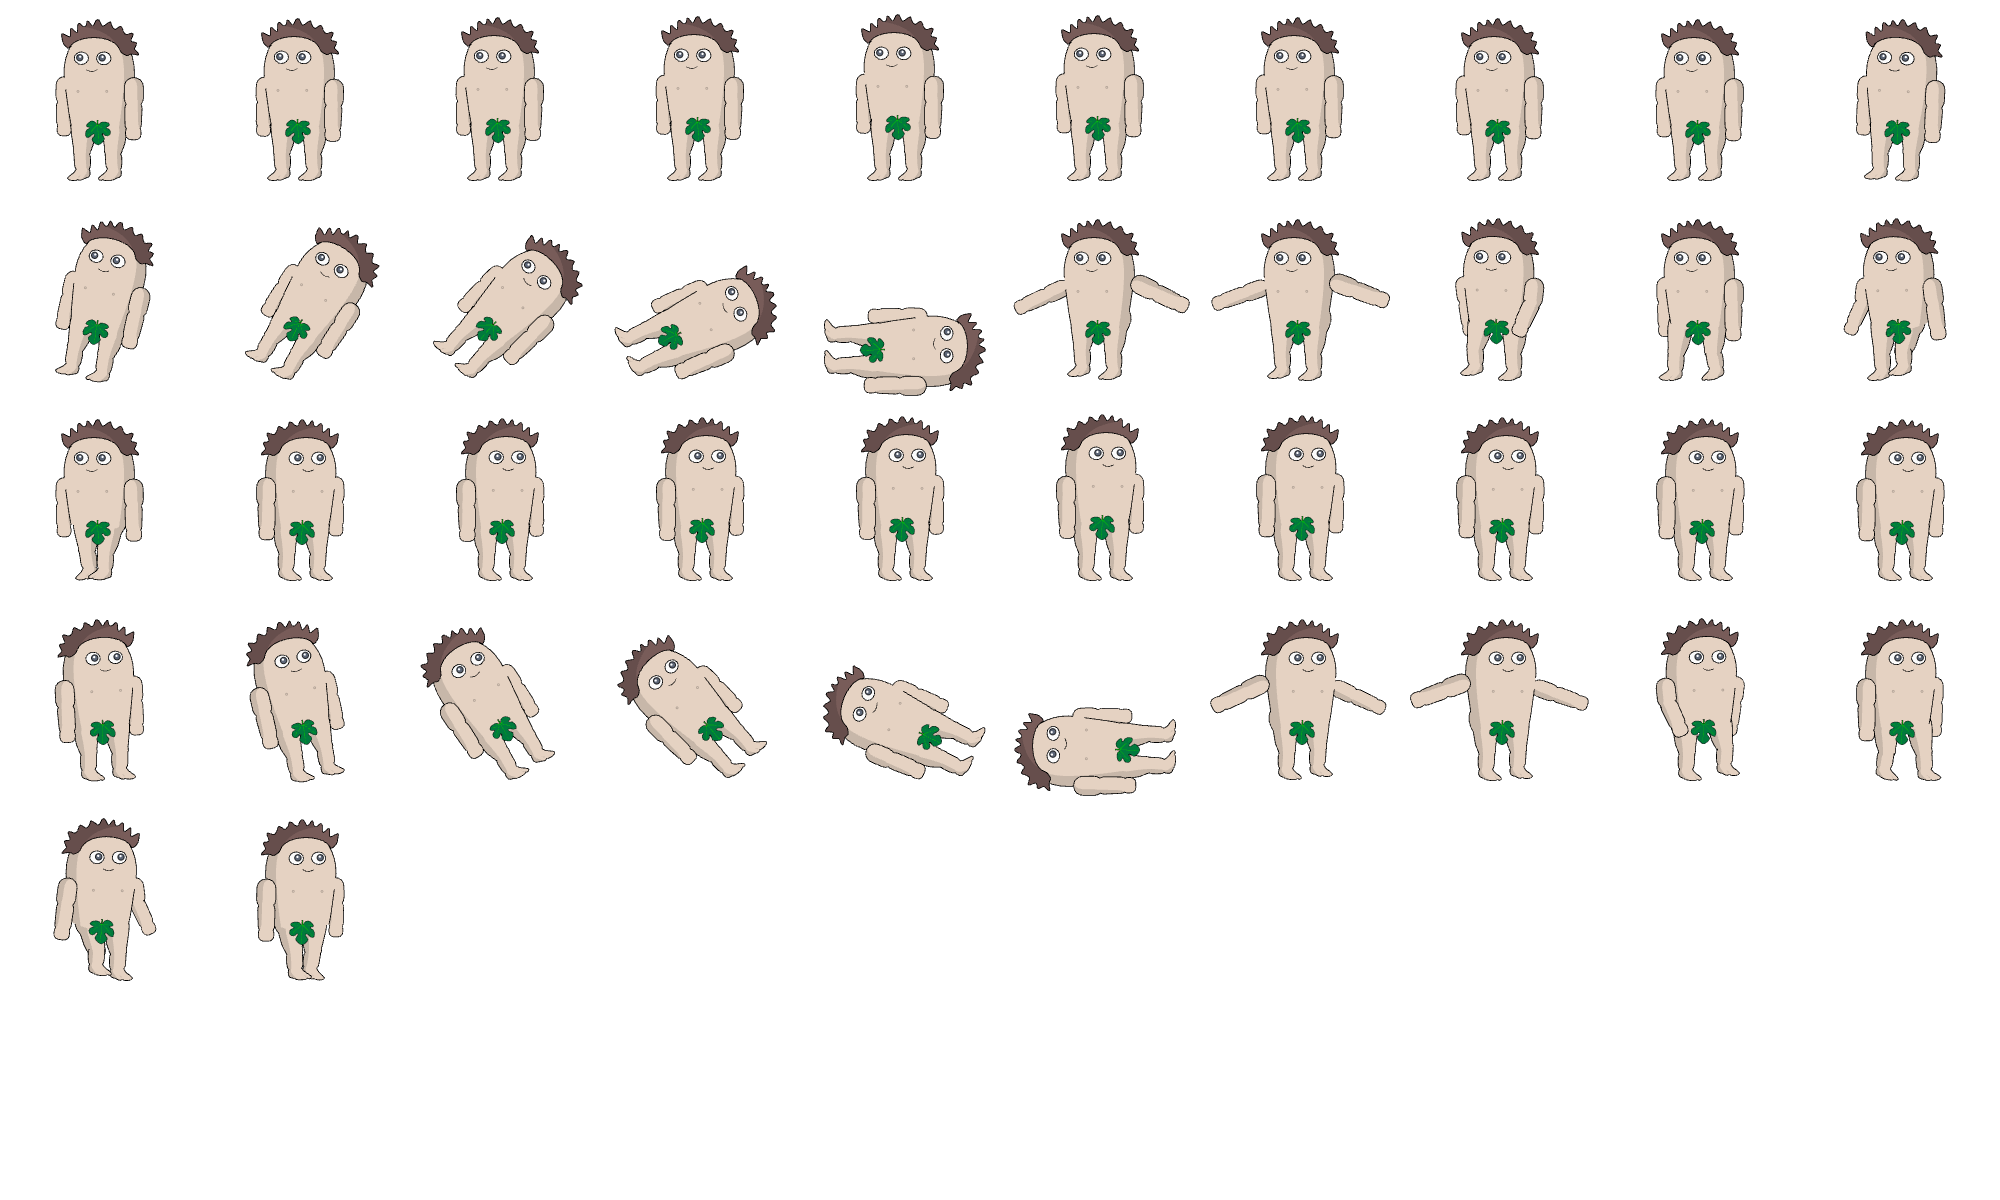
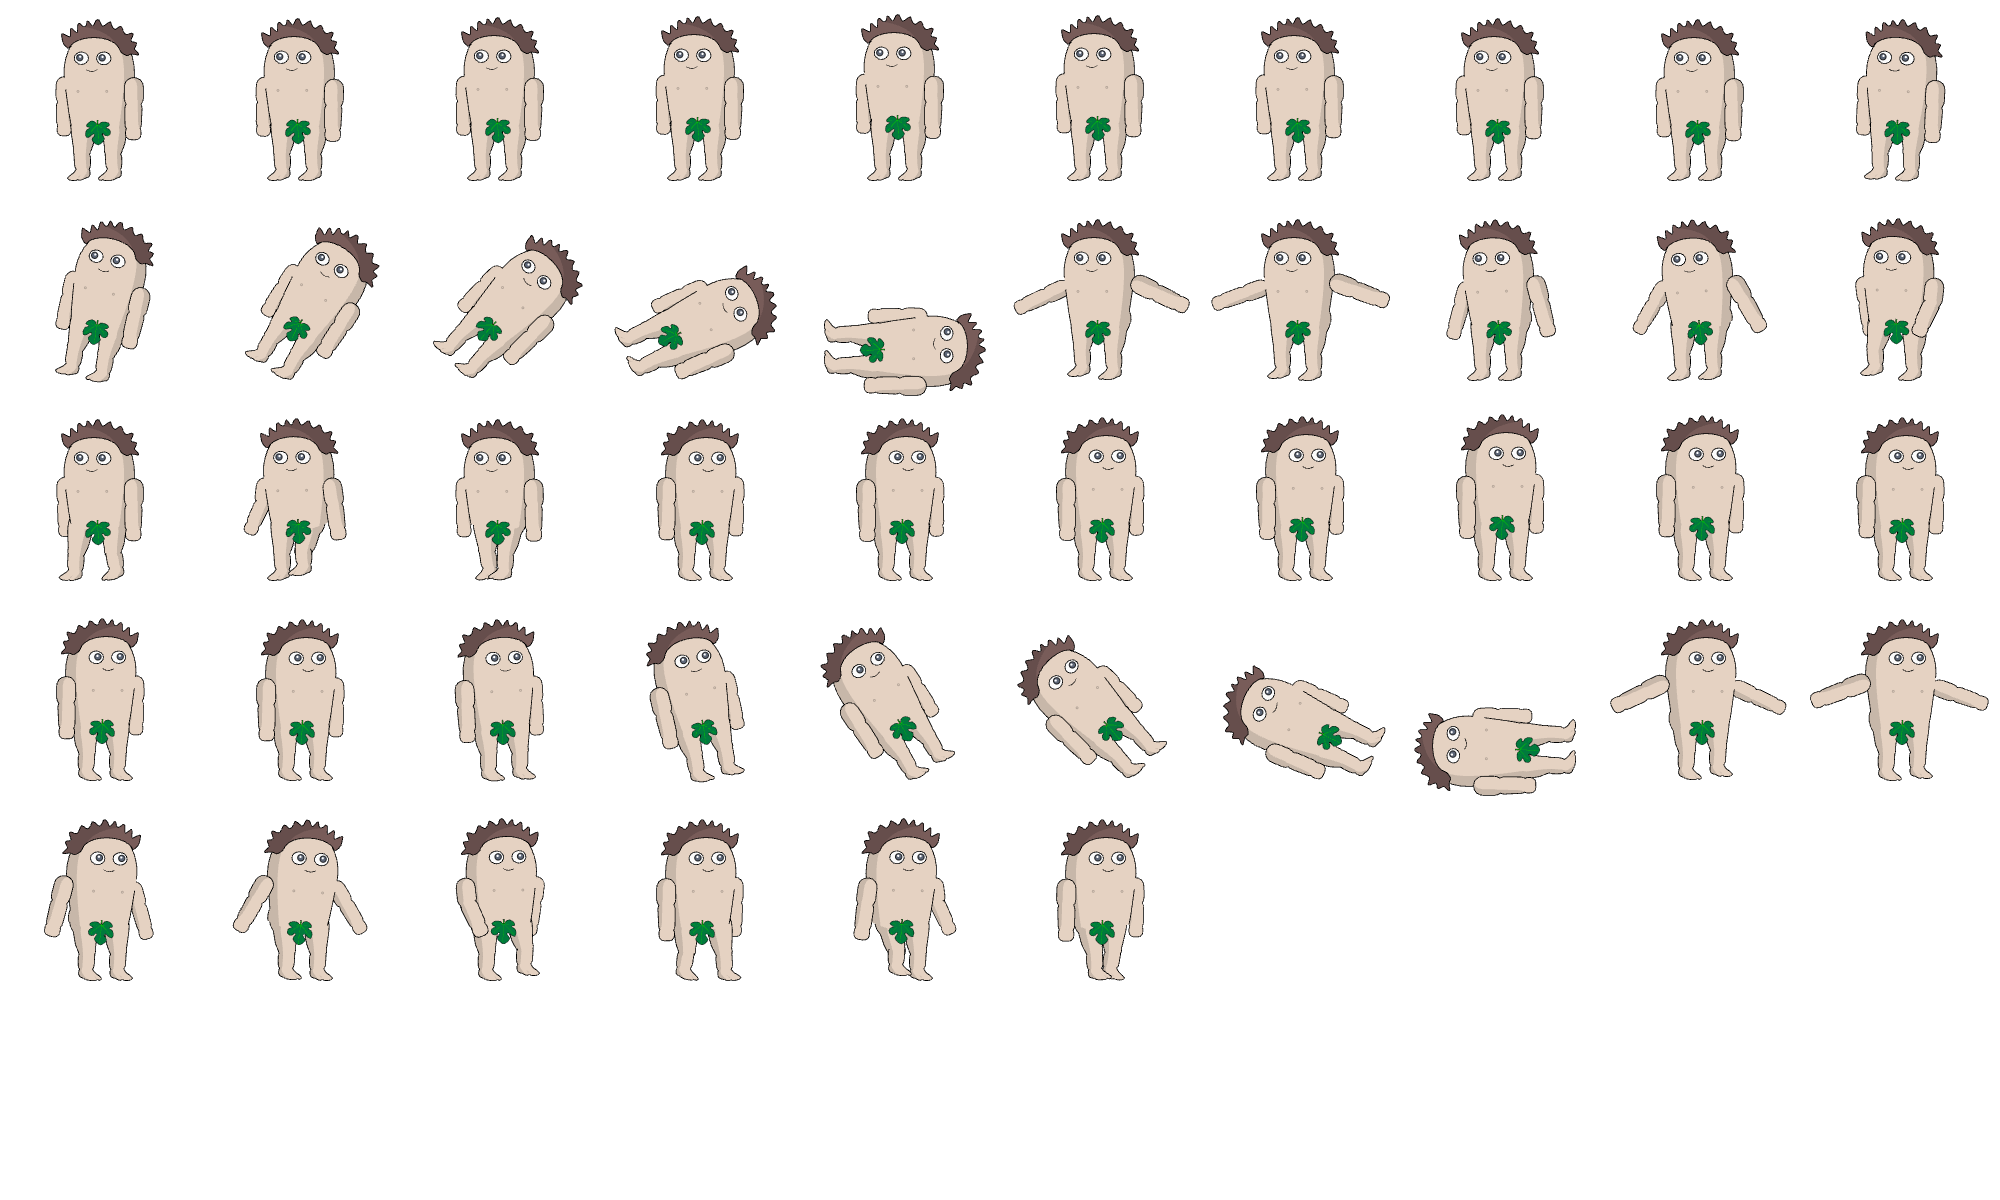
Updates from Spritiulus v0.4.2 and fixes animations

diff --git a/src/game/scenes/Home.js b/src/game/scenes/Home.js
@@ -174,21 +174,33 @@ export class Home extends Scene {
             });
             this.anims.create({
                 key: 'adam-idle-flipped',
-                frames: this.anims.generateFrameNumbers('character-adam', { start: 21, end: 28 }),
+                frames: this.anims.generateFrameNumbers('character-adam', { start: 23, end: 30 }),
                 frameRate: 8,
                 repeat: -1
             });
             this.anims.create({
                 key: 'adam-move',
-                frames: this.anims.generateFrameNumbers('character-adam', { start: 17, end: 20 }),
+                frames: this.anims.generateFrameNumbers('character-adam', { start: 19, end: 22 }),
                 frameRate: 8,
                 repeat: -1
             });
             this.anims.create({
                 key: 'adam-move-flipped',
-                frames: this.anims.generateFrameNumbers('character-adam', { start: 38, end: 41 }),
+                frames: this.anims.generateFrameNumbers('character-adam', { start: 42, end: 45 }),
                 frameRate: 8,
                 repeat: -1
+            });
+            this.anims.create({
+                key: 'adam-jump',
+                frames: this.anims.generateFrameNumbers('character-adam', { start: 17, end: 18 }),
+                frameRate: 8,
+                repeat: 0
+            });
+            this.anims.create({
+                key: 'adam-jump-flipped',
+                frames: this.anims.generateFrameNumbers('character-adam', { start: 40, end: 41 }),
+                frameRate: 8,
+                repeat: 0
             });
             this.anims.create({
                 key: 'adam-fall',
@@ -198,7 +210,7 @@ export class Home extends Scene {
             });
             this.anims.create({
                 key: 'adam-fall-flipped',
-                frames: this.anims.generateFrameNumbers('character-adam', { start: 36, end: 37 }),
+                frames: this.anims.generateFrameNumbers('character-adam', { start: 38, end: 39 }),
                 frameRate: 8,
                 repeat: 0
             });
@@ -210,7 +222,7 @@ export class Home extends Scene {
             });
             this.anims.create({
                 key: 'adam-death-flipped',
-                frames: this.anims.generateFrameNumbers('character-adam', { start: 29, end: 35 }),
+                frames: this.anims.generateFrameNumbers('character-adam', { start: 31, end: 37 }),
                 frameRate: 8,
                 repeat: 0
             });
@@ -222,21 +234,33 @@ export class Home extends Scene {
             });
             this.anims.create({
                 key: 'eve-idle-flipped',
-                frames: this.anims.generateFrameNumbers('character-eve', { start: 21, end: 28 }),
+                frames: this.anims.generateFrameNumbers('character-eve', { start: 23, end: 30 }),
                 frameRate: 8,
                 repeat: -1
             });
             this.anims.create({
                 key: 'eve-move',
-                frames: this.anims.generateFrameNumbers('character-eve', { start: 17, end: 20 }),
+                frames: this.anims.generateFrameNumbers('character-eve', { start: 19, end: 22 }),
                 frameRate: 8,
                 repeat: -1
             });
             this.anims.create({
                 key: 'eve-move-flipped',
-                frames: this.anims.generateFrameNumbers('character-eve', { start: 38, end: 41 }),
+                frames: this.anims.generateFrameNumbers('character-eve', { start: 42, end: 45 }),
                 frameRate: 8,
                 repeat: -1
+            });
+            this.anims.create({
+                key: 'eve-jump',
+                frames: this.anims.generateFrameNumbers('character-eve', { start: 17, end: 18 }),
+                frameRate: 8,
+                repeat: 0
+            });
+            this.anims.create({
+                key: 'eve-jump-flipped',
+                frames: this.anims.generateFrameNumbers('character-eve', { start: 40, end: 41 }),
+                frameRate: 8,
+                repeat: 0
             });
             this.anims.create({
                 key: 'eve-fall',
@@ -246,7 +270,7 @@ export class Home extends Scene {
             });
             this.anims.create({
                 key: 'eve-fall-flipped',
-                frames: this.anims.generateFrameNumbers('character-eve', { start: 36, end: 37 }),
+                frames: this.anims.generateFrameNumbers('character-eve', { start: 38, end: 39 }),
                 frameRate: 8,
                 repeat: 0
             });
@@ -258,7 +282,7 @@ export class Home extends Scene {
             });
             this.anims.create({
                 key: 'eve-death-flipped',
-                frames: this.anims.generateFrameNumbers('character-eve', { start: 29, end: 35 }),
+                frames: this.anims.generateFrameNumbers('character-eve', { start: 31, end: 37 }),
                 frameRate: 8,
                 repeat: 0
             });
@@ -318,43 +342,43 @@ export class Home extends Scene {
             });
             this.anims.create({
                 key: 'grassy-clump-idle-flipped',
-                frames: this.anims.generateFrameNumbers('element-grassy-clump', { start: 34, end: 44 }),
+                frames: this.anims.generateFrameNumbers('element-grassy-clump', { start: 30, end: 40 }),
                 frameRate: 8,
                 repeat: -1
             });
             this.anims.create({
                 key: 'grassy-clump-attack-1',
-                frames: this.anims.generateFrameNumbers('element-grassy-clump', { start: 11, end: 21 }),
+                frames: this.anims.generateFrameNumbers('element-grassy-clump', { start: 23, end: 29 }),
                 frameRate: 8,
                 repeat: 0
             });
             this.anims.create({
                 key: 'grassy-clump-attack-1-flipped',
-                frames: this.anims.generateFrameNumbers('element-grassy-clump', { start: 45, end: 55 }),
+                frames: this.anims.generateFrameNumbers('element-grassy-clump', { start: 53, end: 59 }),
                 frameRate: 8,
                 repeat: 0
             });
             this.anims.create({
                 key: 'grassy-clump-take-hit',
-                frames: this.anims.generateFrameNumbers('element-grassy-clump', { start: 22, end: 32 }),
+                frames: this.anims.generateFrameNumbers('element-grassy-clump', { start: 11, end: 21 }),
                 frameRate: 8,
                 repeat: 0
             });
             this.anims.create({
                 key: 'grassy-clump-take-hit-flipped',
-                frames: this.anims.generateFrameNumbers('element-grassy-clump', { start: 56, end: 66 }),
+                frames: this.anims.generateFrameNumbers('element-grassy-clump', { start: 41, end: 51 }),
                 frameRate: 8,
                 repeat: 0
             });
             this.anims.create({
                 key: 'grassy-clump-death',
-                frames: this.anims.generateFrameNumbers('element-grassy-clump', { start: 33, end: 33 }),
+                frames: this.anims.generateFrameNumbers('element-grassy-clump', { start: 22, end: 22 }),
                 frameRate: 8,
                 repeat: 0
             });
             this.anims.create({
                 key: 'grassy-clump-death-flipped',
-                frames: this.anims.generateFrameNumbers('element-grassy-clump', { start: 67, end: 67 }),
+                frames: this.anims.generateFrameNumbers('element-grassy-clump', { start: 52, end: 52 }),
                 frameRate: 8,
                 repeat: 0
             });

diff --git a/src/game/scenes/level1.js b/src/game/scenes/level1.js
@@ -209,9 +209,6 @@ export class level1 extends Scene {
         this.physics.add.collider(this.player, this.belowGround);
         this.physics.add.overlap(this.player, this.obstacles, (player, obstacle) => {
             player.play(this.playerKey + '-take-hit' + (this.playerIsFlipped ? '-flipped' : ''), true);
-            player.on('animationcomplete', () => {
-                player.play(this.playerKey + '-death' + (this.playerIsFlipped ? '-flipped' : ''), true);
-            });
             
             obstacle.play(obstacle.texture.key.replace('element-', '') + '-attack-1', true);
             obstacle.on('animationcomplete', () => {

diff --git a/README.md b/README.md
@@ -14,4 +14,4 @@
 * License*
 Genesis Jump by Spritulus is licensed under Creative Commons Attribution-ShareAlike 4.0 International (CC BY-SA 4.0). To view a copy of this license, visit http://creativecommons.org/licenses/by-sa/4.0/.
 
-This package was created using [Spritulus](https://www.spritulus.com/) version 0.4.1.
+This package was created using [Spritulus](https://www.spritulus.com/) version 0.4.2.
